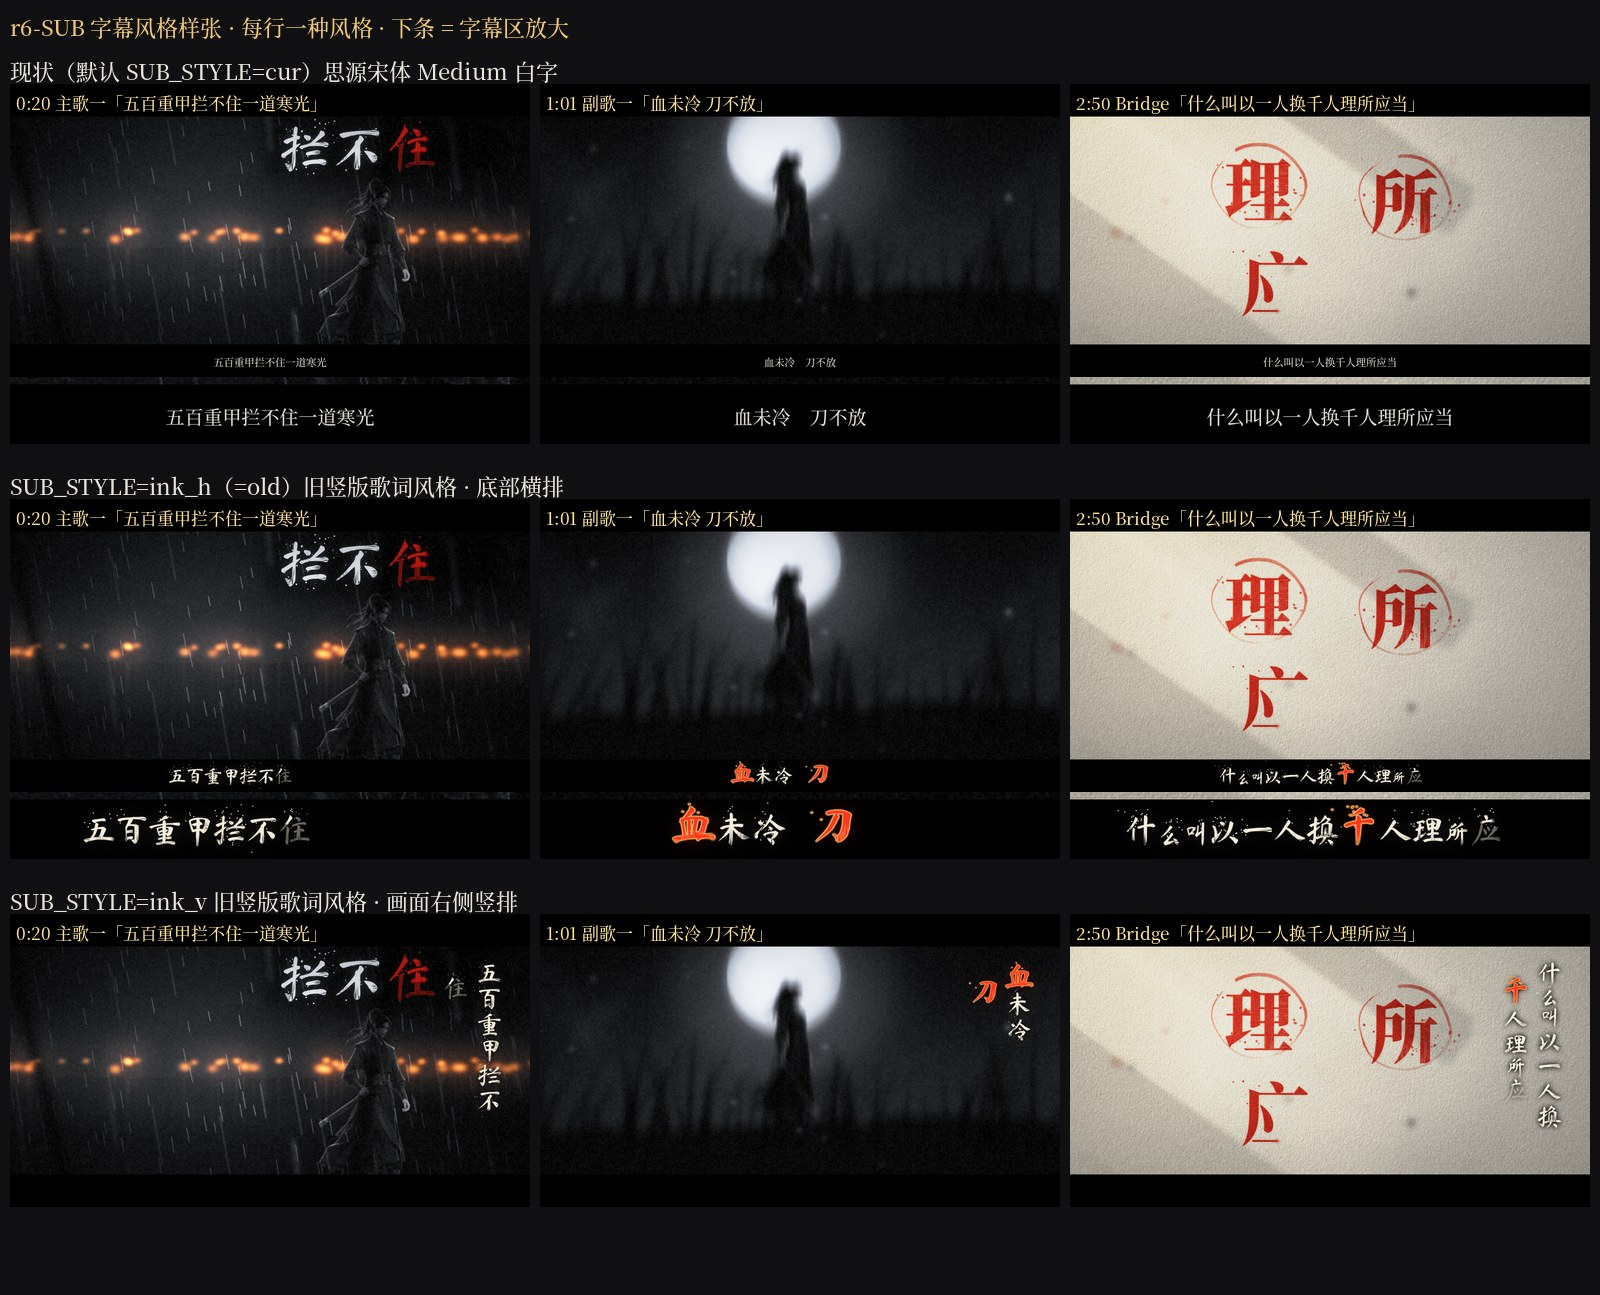
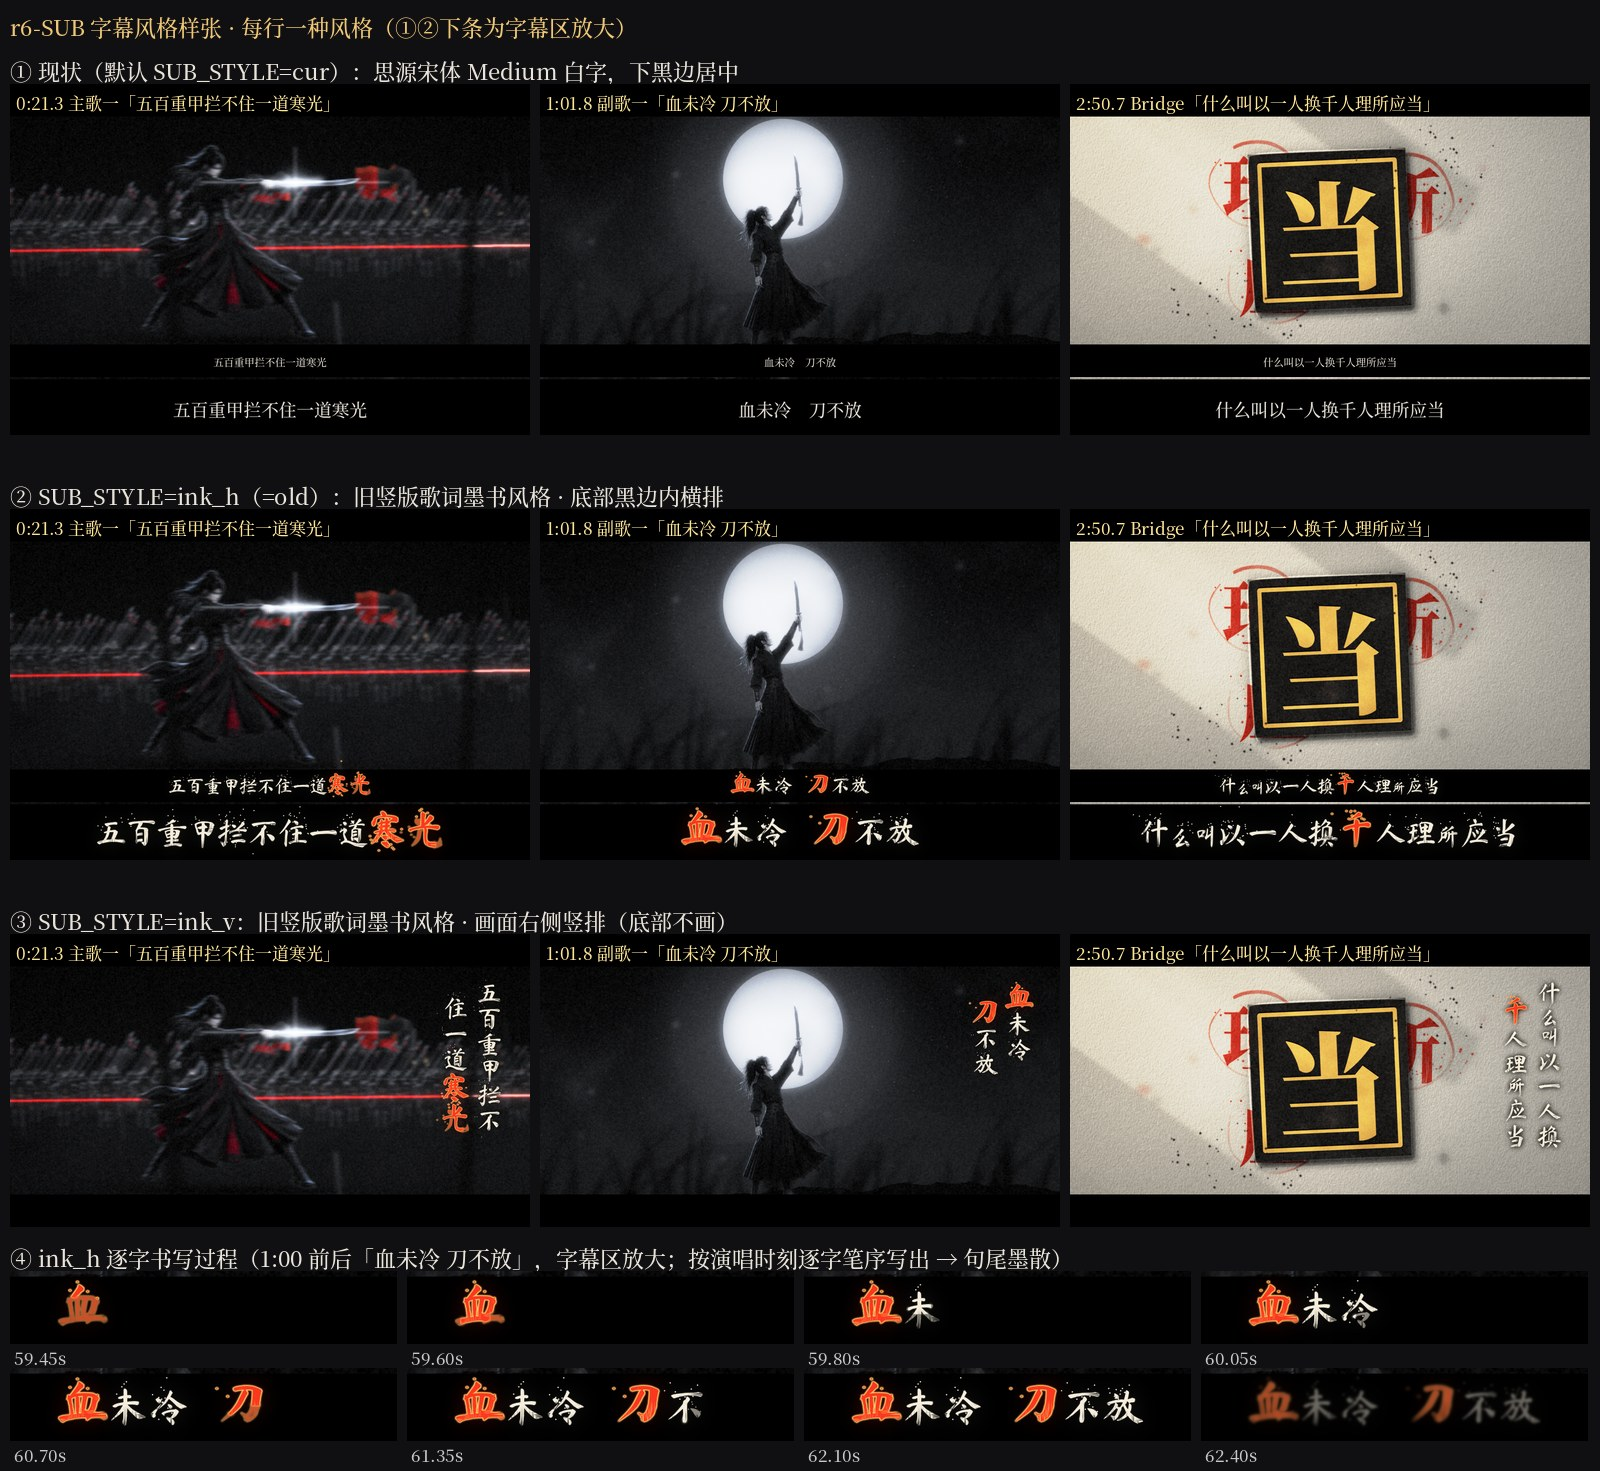
[SUB组 r6] 样张 SUB_r6_styles.jpg（现状 / ink_h / ink_v × 0:21.3 / 1:01.8 / 2:50.7 + ink_h 逐字书写过程）+ SUB_r6.md 交付单；默认仍为现状

diff --git a/crew/round6/SUB_r6.md b/crew/round6/SUB_r6.md
@@ -10,3 +10,18 @@
 - 字号节奏：关键字大、虚字小（「长夜 压在我 刀锋」），大小错落、竖列第二列下错半格（「谁把人命 / 装进天平」）。
 
 ## 逐条
+1. **subtitle.py 加 SUB_STYLE 开关**（`99c7dfa`；代码本体先被 autosync `b6a966c` 收走）。默认 `cur` = 现状，逐像素未变。
+   - `ink_h`（别名 `old`）：底部黑边内横排。马善政楷；基础字号 74/68/62（≤10/≤13/≤16 字），关键字 ×1.24 朱红、虚字（之的在了也过是就把被又来为么叫个它都还着…）×0.78；底边对齐 y≈1054，最大字顶 ≈962，全在 960–1080 黑边内。
+     逐字时刻取 `align.json` words（56 句全部对齐，按句起点索引，副歌重复句不串）；每字提前 0.1s 起笔、0.32s 写完；句尾 t1+0.25 起 0.3s 墨散（晕开 + 淡出）。
+   - `ink_v`：画面右侧竖排，右列 x=1770，>10 字从中间断两列（断点避开虚字），第二列左移 1.35 字宽、下错 0.6 字；字号 ≤92；底部不画。
+   - 关键字：自动按优先级「血刀骨命罪杀邪墙锋权扛判答闯伪葬黑撕天」每句最多 2 个，另有 `RED_OVR` 手定 17 句（寒光、罪、命、死框、牺牲、千、反抗、纲、退让、劈…）。
+   - 可调：`SUB_INK_FONT=xing` 换志莽行书。
+   - 验证：`SUB_STYLE=ink_h tools/rf_sb.sh 61.8` 整片管线渲出的帧与离线叠加逐像素一致（差 0.0）。单帧叠加耗时 ≤0.25s。
+2. **样张 `out/round6/SUB_r6_styles.jpg`**（1600×1471）：①现状 ②ink_h ③ink_v × 3 时间点（0:21.3 主歌一「五百重甲拦不住一道寒光」、1:01.8 副歌一「血未冷 刀不放」、2:50.7 Bridge「什么叫以一人换千人理所应当」），①②下附字幕区放大；④ink_h 逐字书写过程 8 格（59.45–62.40s）。
+   时间点没用建议的 18.0/61.0/170.0：那三刻都是句子写到一半（18.0 句子还没开始），换成句尾整句都在的帧。底图 SUB_OFF=1 经 cpu_slot 渲（out/r6tmp/sub/，不入库）。
+   自评：ink_h 8（书法感、朱红关键字、逐字书写都回来了，黑边内不压画面；小字在 1/4 缩略下略细）；ink_v 8（最像旧竖版，但压画面右侧，和画内横排字如 0:21「拦不住」并存时字多）。
+
+## 待用户拍板
+- 选哪种：现状 / ink_h / ink_v。选定后把 `style()` 的默认值改掉即可，全片生效，不动任何 section。
+- ink_v 会压画面右侧约 x 1600–1830：右侧有人物/画内字的镜头（如 0:34 V14 近景、2:50 印章字）可能要逐镜避让，选它的话需再跑一遍全片巡检。
+- 关键字朱红挑字是否满意（RED_OVR 可逐句改）。
